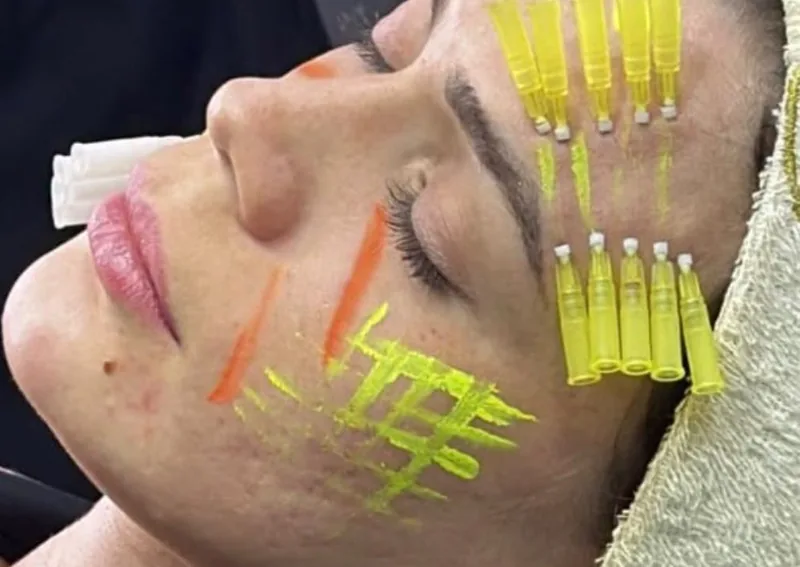
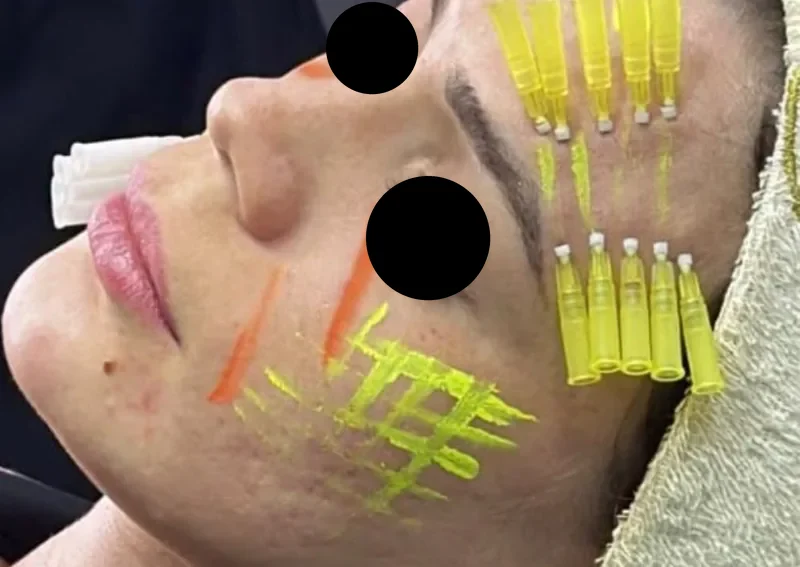
Fotos de Salto em Onde estamos, alterna fotos de Santo André na Experiência e cobre os olhos na foto de Bioestimulação

Changed region(s): [[0.4375, 0.2998, 0.625, 0.5397], [0.4062, 0.0, 0.5312, 0.1799]]

diff --git a/src/components/Experience.tsx b/src/components/Experience.tsx
@@ -1,5 +1,6 @@
+import { useEffect, useState } from 'react'
 import { Ear, FlaskConical, Leaf, Route } from 'lucide-react'
-import { photos } from '../data/photos'
+import { photos, type Photo } from '../data/photos'
 import { Img } from './Img'
 import { Notch } from './Notch'
 import { SectionLabel } from './SectionLabel'
@@ -10,6 +11,26 @@ const items = [
   { icon: Leaf, title: 'Naturalidade', text: 'Valorizar seus traços, sem padronizar rostos.' },
   { icon: FlaskConical, title: 'Ciência e segurança', text: 'Conhecimento técnico como base de cada decisão.' },
 ]
+
+/** Alterna as fotos (Salto e Santo André) com um cruzamento suave; parado se o usuário pediu menos movimento. */
+function Alternating({ list, width, sizes }: { list: Photo[]; width: number; sizes: string }) {
+  const [shown, setShown] = useState(0)
+  useEffect(() => {
+    if (matchMedia('(prefers-reduced-motion: reduce)').matches) return
+    const t = setInterval(() => setShown((n) => (n + 1) % list.length), 5000)
+    return () => clearInterval(t)
+  }, [list.length])
+  return list.map((photo, n) => (
+    <Img
+      key={photo.src}
+      photo={photo}
+      width={width}
+      sizes={sizes}
+      className={`absolute inset-0 h-full w-full object-cover ${n === shown ? 'opacity-100' : 'opacity-0'}`}
+      style={{ transition: 'opacity 1.2s ease, transform 1.2s var(--ease-soft)' }}
+    />
+  ))
+}
 
 /** Diferenciais e experiência de atendimento. */
 export function Experience() {
@@ -39,13 +60,13 @@ export function Experience() {
 
           <div data-reveal className="mt-14 grid gap-3 md:grid-cols-[1.55fr_1fr] lg:mt-20">
             <figure className="img-zoom relative h-[clamp(14rem,30vw,26rem)] overflow-hidden rounded-[1.4rem] bg-olive">
-              <Img photo={photos.clinicaSala} width={1100} sizes="(min-width:768px) 60vw, 100vw" className="h-full w-full object-cover" />
+              <Alternating list={[photos.clinicaSala, photos.saRecepcao]} width={1100} sizes="(min-width:768px) 60vw, 100vw" />
               <figcaption className="glass-dark absolute left-4 top-4 max-w-[220px] rounded-2xl p-4 text-[0.95rem] leading-snug">
                 Um espaço pensado para o seu bem-estar.
               </figcaption>
             </figure>
             <div className="img-zoom relative h-[clamp(14rem,30vw,26rem)] overflow-hidden rounded-[1.4rem] bg-olive">
-              <Img photo={photos.clinicaRecepcao} width={800} sizes="(min-width:768px) 40vw, 100vw" className="h-full w-full object-cover" />
+              <Alternating list={[photos.clinicaRecepcao, photos.saSala]} width={800} sizes="(min-width:768px) 40vw, 100vw" />
             </div>
           </div>
 

diff --git a/src/components/Location.tsx b/src/components/Location.tsx
@@ -6,6 +6,9 @@ import saPredio from '../assets/img/sa-predio.jpg'
 import saSala from '../assets/img/sa-sala.jpg'
 import saRecepcao from '../assets/img/sa-recepcao.jpg'
 import saLavabo from '../assets/img/sa-lavabo.jpg'
+import { photos } from '../data/photos'
+
+const saltoPhotos = [photos.ambiente, photos.clinicaSala, photos.clinicaRecepcao, photos.agendamento].map((p) => [p.src, p.alt] as const)
 
 const saPhotos = [
   [saPredio, 'Fachada de vidro do edifício em Santo André'],
@@ -14,19 +17,34 @@ const saPhotos = [
   [saLavabo, 'Lavabo com espelho orgânico e detalhes dourados'],
 ] as const
 
+function Thumbs({ list }: { list: readonly (readonly [string, string])[] }) {
+  return (
+    <ul className="mt-4 grid max-w-sm grid-cols-4 gap-2">
+      {list.map(([src, alt]) => (
+        <li key={src} className="aspect-[3/4] overflow-hidden rounded-xl bg-paper">
+          <img src={src} alt={alt} loading="lazy" className="h-full w-full object-cover" />
+        </li>
+      ))}
+    </ul>
+  )
+}
+
 export function Location() {
   const info = [
     {
       icon: MapPin,
       label: 'Salto',
       body: (
-        <a href={site.mapsLink} target="_blank" rel="noopener noreferrer" className="underline decoration-ink/20 underline-offset-4 transition hover:decoration-ink">
-          {site.address.line1}
-          <br />
-          {site.address.line2}
-          <br />
-          {site.address.building}
-        </a>
+        <>
+          <a href={site.mapsLink} target="_blank" rel="noopener noreferrer" className="underline decoration-ink/20 underline-offset-4 transition hover:decoration-ink">
+            {site.address.line1}
+            <br />
+            {site.address.line2}
+            <br />
+            {site.address.building}
+          </a>
+          <Thumbs list={saltoPhotos} />
+        </>
       ),
     },
     {
@@ -40,13 +58,7 @@ export function Location() {
             {site.address2.line2}
           </a>
           <span className="mt-1 block text-[0.85rem] text-muted">A {site.professional} atende neste endereço a cada quinze dias.</span>
-          <ul className="mt-4 grid max-w-sm grid-cols-4 gap-2">
-            {saPhotos.map(([src, alt]) => (
-              <li key={src} className="aspect-[3/4] overflow-hidden rounded-xl bg-paper">
-                <img src={src} alt={alt} loading="lazy" className="h-full w-full object-cover" />
-              </li>
-            ))}
-          </ul>
+          <Thumbs list={saPhotos} />
         </>
       ),
     },

diff --git a/src/data/photos.ts b/src/data/photos.ts
@@ -23,6 +23,8 @@ import ambSala from '../assets/img/ambiente-sala.jpg'
 import ambBancada from '../assets/img/ambiente-bancada.jpg'
 import ambVitrine from '../assets/img/ambiente-vitrine.jpg'
 import ambCertificados from '../assets/img/ambiente-certificados.jpg'
+import saRecepcao from '../assets/img/sa-recepcao.jpg'
+import saSala from '../assets/img/sa-sala.jpg'
 
 export type Photo = { id?: string; src?: string; alt: string; pos?: string }
 export type GalleryPhoto = Photo & { title: string; text: string }
@@ -46,6 +48,9 @@ export const photos = {
   ambiente: { src: ambSala, alt: 'Sala de atendimento da clínica, com cadeira de procedimento branca, luminária e quadros de harmonização facial na parede', pos: '50% 60%' },
   clinicaSala: { src: ambBancada, alt: 'Bancada da clínica com produtos de skincare e bandeja com copos e balas para as pacientes', pos: '50% 75%' },
   clinicaRecepcao: { src: ambVitrine, alt: 'Vitrine iluminada com produtos Anna Pegova, ao lado de parede ripada de madeira e uma planta', pos: '50% 45%' },
+  // Santo André: alternam com as fotos de Salto na seção Experiência
+  saRecepcao: { src: saRecepcao, alt: 'Recepção da clínica em Santo André, com café e água para as pacientes' },
+  saSala: { src: saSala, alt: 'Sala de atendimento com maca, em Santo André' },
   agendamento: { src: ambCertificados, alt: 'Certificados da Dra. Patrícia Silva emoldurados, com a frase "Aqui tem Deus em cada detalhe" à frente' },
 } satisfies Record<string, Photo>
 
